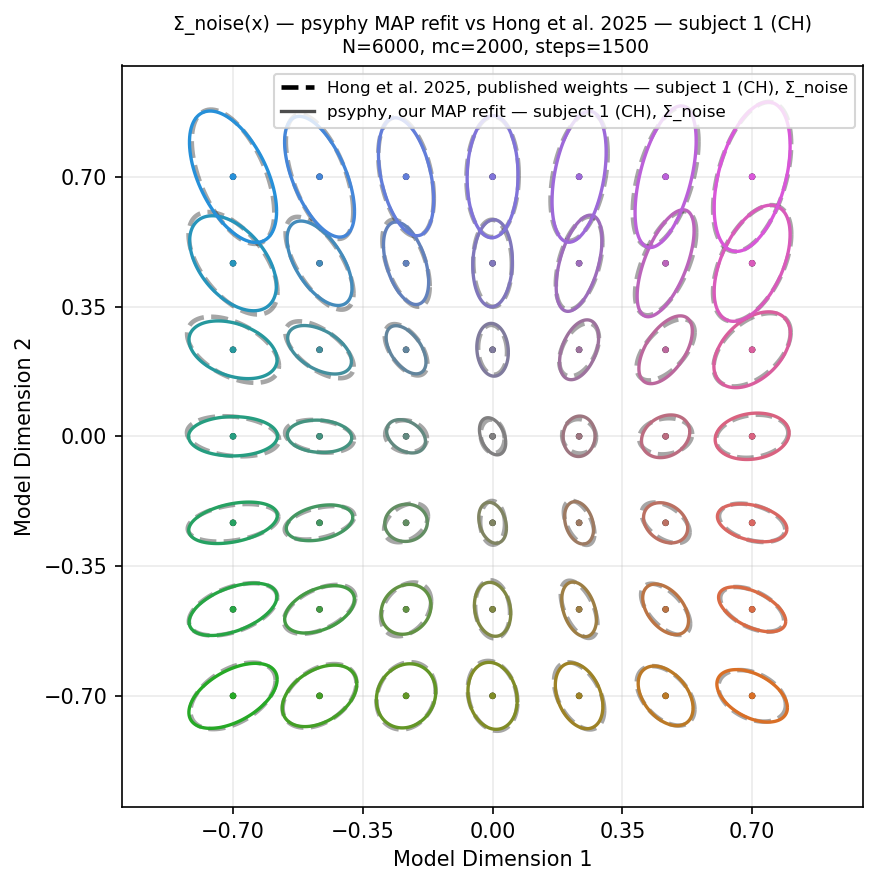
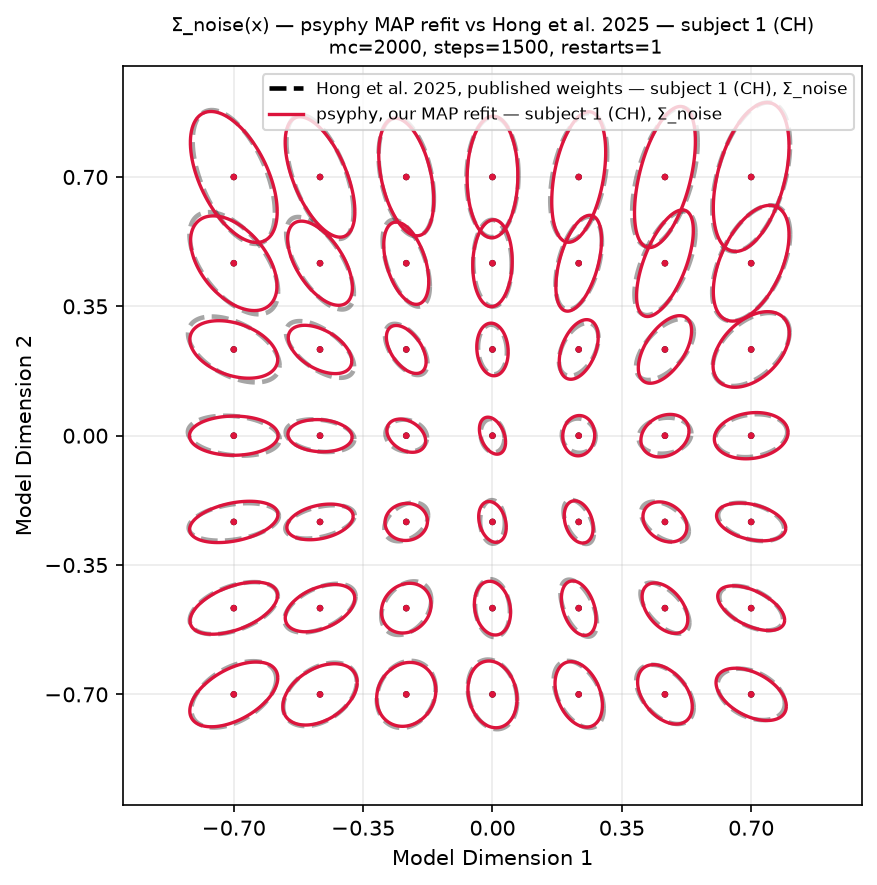
.

diff --git a/docs/examples/wppm/hong2025_reproduction.py b/docs/examples/wppm/hong2025_reproduction.py
@@ -300,23 +300,21 @@ def _load_calibration():
         return None
 
 
-def plot_comparison(
-    coords, Sigma_fit, Sigma_ref, out_path, title, scale, M=None, subject=1
-):
+def plot_comparison(coords, Sigma_fit, Sigma_ref, out_path, title, scale, subject=1):
     """Two noise fields overlaid, published vs fitted.
 
-    Same convention as the threshold figures: published dashed gray underneath,
-    ours solid on top colored by reference stimulus.
+    Published dashed gray underneath, as everywhere else on the page. Ours is a
+    single red, *not* colored by reference stimulus: this is the noise field
+    (the paper's supplementary Figure S3), and per-stimulus coloring is reserved
+    for the threshold figures so the two cannot be mistaken for each other.
     """
     fig, ax = plt.subplots(figsize=(6, 6), dpi=150)
-    colors, fallback_note = _stimulus_colors(coords, M)
-    title = title + fallback_note
     plot_ellipses(
         coords,
         [Sigma_ref, Sigma_fit],
         ax=ax,
         scale=scale,
-        colors=["black", colors],
+        colors=["black", "crimson"],
         linestyles=["--", "solid"],
         linewidths=[2.2, 1.6],
         alpha=[0.35, None],
@@ -509,6 +507,63 @@ def stage2_thresholds(paths: dict[str, Path], thr: dict, subject: int) -> None:
     )
 
 
+def _plot_noise_comparison(coords, Sigma_fit, Sigma_ref, mode, subject, subtitle):
+    """Draw the Sigma_noise comparison (the paper's supplementary Figure S3)."""
+    plot_comparison(
+        coords,
+        Sigma_fit,
+        Sigma_ref,
+        PLOTS_DIR / f"hong2025_{mode}_ellipses.png",
+        f"Σ_noise(x) — psyphy MAP refit vs Hong et al. 2025 — "
+        f"{_subject_tag(subject)}\n {subtitle}",
+        scale=auto_scale(coords, Sigma_ref),
+        subject=subject,
+    )
+
+
+def stage3_figure_from_fit(
+    paths: dict[str, Path], fit_path: Path, mode: str, subject: int
+) -> None:
+    """Redraw stage 3's Sigma_noise figure from saved weights, without refitting.
+
+    The covariance field is a deterministic function of W, so this needs no
+    optimizer, no Monte Carlo and no GPU -- only the fit did. It exists so a
+    styling or labelling change to the figure does not cost another cluster run.
+    """
+    print("\n=== Stage 3 (figure only): redrawn from the saved fit ===")
+    if not fit_path.exists():
+        print(f"  skipped: no saved fit at {fit_path}")
+        return
+
+    coords, _ = hong2025.load_sigma_table(paths["thres_ellipses"])
+    W_org = hong2025.load_reference_W(paths["weights"])
+    W_fit = jnp.asarray(np.load(fit_path)["W"])
+
+    model = hong2025.build_paper_model(mc_samples=1)  # MC unused: no likelihood
+    Sigma_ref = np.asarray(
+        WPPMCovarianceField(model, {"W": W_org})(jnp.asarray(coords))
+    )
+    Sigma_fit = np.asarray(
+        WPPMCovarianceField(model, {"W": W_fit})(jnp.asarray(coords))
+    )
+
+    for key, value in compare_fields(Sigma_fit, Sigma_ref).items():
+        print(f"    {key:24s} {value: .4f}")
+
+    cfg = MODES.get(mode, {})
+    _plot_noise_comparison(
+        coords,
+        Sigma_fit,
+        Sigma_ref,
+        mode,
+        subject,
+        subtitle=(
+            f"mc={cfg.get('mc_samples', '?')}, steps={cfg.get('steps', '?')}, "
+            f"restarts={cfg.get('restarts', '?')}"
+        ),
+    )
+
+
 def stage3_refit(
     paths: dict[str, Path], cfg: dict, mode: str, seed: int, subject: int
 ) -> Path:
@@ -588,17 +643,13 @@ def stage3_refit(
     for key, value in metrics.items():
         print(f"    {key:24s} {value: .4f}")
 
-    scale = auto_scale(coords, Sigma_ref)
-    plot_comparison(
+    _plot_noise_comparison(
         coords,
         Sigma_fit,
         Sigma_ref,
-        PLOTS_DIR / f"hong2025_{mode}_ellipses.png",
-        f"Σ_noise(x) — psyphy MAP refit vs Hong et al. 2025 — {_subject_tag(subject)}\n"
-        f" N={data.num_trials}, mc={cfg['mc_samples']}, steps={cfg['steps']}",
-        scale=scale,
-        M=_load_calibration(),
-        subject=subject,
+        mode,
+        subject,
+        subtitle=f"N={data.num_trials}, mc={cfg['mc_samples']}, steps={cfg['steps']}",
     )
 
     fig, ax = plt.subplots(figsize=(6, 4), dpi=150)
@@ -818,8 +869,11 @@ def stage5_bootstrap_envelope(
 
     fig, ax = plt.subplots(figsize=(6.5, 6.5), dpi=150)
 
-    # Layer 1: the CI set. Thin and nearly transparent so 114 fits read as a
-    # band rather than 114 distinguishable curves. Labelled once.
+    # --8<-- [start:envelope_plot]
+    # Layer 1: the CI set. 114 fields in one call -- plot_ellipses accepts a
+    # stack of shape (n_fields, n_points, 2, 2). Thin and nearly transparent so
+    # they read as a band rather than 114 distinguishable curves, and labelled
+    # once rather than 114 times.
     plot_ellipses(
         coords,
         boots,
@@ -847,6 +901,7 @@ def stage5_bootstrap_envelope(
         ],
         show_centers=True,
     )
+    # --8<-- [end:envelope_plot]
 
     ticks = np.linspace(-0.7, 0.7, 5)
     ax.set_xticks(ticks)
@@ -956,9 +1011,13 @@ def main() -> int:
         stage2_thresholds(paths, thr, args.subject)
     fit_path = args.from_fit or FITS_DIR / f"hong2025_{args.mode}_fit.npz"
 
-    if args.skip_refit or args.from_fit:
-        reason = "--from-fit" if args.from_fit else "--skip-refit"
-        print(f"\n=== Stage 3: skipped ({reason}) ===")
+    if args.from_fit:
+        # The fit is what needs a GPU; its figure does not. Redraw it from the
+        # saved weights so restyling never costs another cluster run.
+        print("\n=== Stage 3: fit skipped (--from-fit) ===")
+        stage3_figure_from_fit(paths, fit_path, args.mode, args.subject)
+    elif args.skip_refit:
+        print("\n=== Stage 3: skipped (--skip-refit) ===")
     else:
         if args.mode == "full" and jax.devices()[0].platform == "cpu":
             print(

diff --git a/docs/examples/wppm/hong2025_reproduction.md b/docs/examples/wppm/hong2025_reproduction.md
@@ -27,11 +27,17 @@ This tutorial is accompanied by a
     ```
 
 
-Hong et al. measured how finely people can tell colors apartfor more
-than just a handful of colors. This page reproduces their
-central figure from their own published data, in three stages: an exact
-check of the model's arithmetic, the threshold contours of Figure 2B, and a
-refit from their raw trials to see whether we get the same final results.
+Hong et al. measured how finely people can tell colors apart, for more than
+just a handful of colors. This page reproduces their central figure end to
+end: starting from their raw trial data, psyphy refits the model, inverts it
+to discrimination thresholds, and lands inside the authors' own bootstrap
+confidence interval.
+
+We build that up one rung at a time, so a disagreement at any point is
+attributable: an exact check of the model's arithmetic from their published
+weights, the Figure 2B inversion from those same weights, a refit from the raw
+trials, the two halves joined, and finally a comparison against the paper's own
+measure of its uncertainty.
 
 **Who this is for**
 
@@ -96,12 +102,17 @@ classic Weber's Law result on simulated one-dimensional data.
 
 
 <div align="center">
-    <img src="../plots/hong2025_thresholds.png"
-         alt="Paper Figure 2B reproduced: 66.7%-correct discrimination threshold contours"
+    <img src="../plots/hong2025_full_thresholds_end_to_end.png"
+         alt="Paper Figure 2B reproduced end to end, from raw trials through a psyphy refit"
          width="620"/>
-    <p><em>Colored ellipses are the contours we recover with psyphy; dashed gray
-    are the published ones. Each ellipse takes the color of its own reference
-    stimulus (center dot). The dimensions of the figure here are called model dimensions and are arbitrary in that they can result from any affine transformation of the input (RGB) space. </em></p>
+    <p><em>Paper Figure 2B, reproduced end to end for subject 1 (CH). Colored
+    ellipses are the contours psyphy recovers; dashed gray are the published
+    ones. Each ellipse takes the color of its own reference stimulus (center
+    dot). Nothing published enters this chain except the raw trials: psyphy
+    fits the model's weights from those trials, inverts the oddity task to turn
+    the resulting noise field into 66.7%-correct thresholds, and the result is
+    what you see. The axes are model dimensions, arbitrary up to an affine
+    transformation of the input (RGB) space.</em></p>
 </div>
 
 
@@ -295,6 +306,13 @@ object with the ``threshold_pred`` argument set to ``True``, passing it the rele
     squares over those three unknowns, followed by a single matrix inverse to
     recover $Σ$ itself. No iteration, and nothing that can fail to converge.
 
+We run the inversion at the paper's own settings — 16 directions, 1,000
+distances along each, 2,000 Monte Carlo samples per evaluation:
+
+```python title="Compute settings"
+--8<-- "docs/examples/wppm/hong2025_reproduction.py:threshold_settings"
+```
+
 ```python title="Threshold inversion at every published reference point"
 --8<-- "docs/examples/wppm/hong2025_reproduction.py:thresholds"
 ```
@@ -383,10 +401,11 @@ The following block of code refits the WPPM's weights from the raw data, compute
     <img src="../plots/hong2025_full_ellipses.png"
          alt="Sigma_noise: the published weights' field vs a full-settings psyphy refit"
          width="560"/>
-    <p><em><span class="arithmatex">\(\Sigma_{\text{noise}}(x)\)</span> for subject 1 (CH), in the same convention as the figure at
-    the top of this page: dashed gray is the field from the authors' published
-    weights, colored solid is our own MAP refit, each ellipse taking the color of
-    its reference stimulus. This is the paper's supplementary Figure S3.
+    <p><em><span class="arithmatex">\(\Sigma_{\text{noise}}(x)\)</span> for subject 1 (CH): dashed gray is the field
+    from the authors' published weights, red is our own MAP refit. This is the
+    paper's supplementary Figure S3. The ellipses are a single color here rather
+    than colored by reference stimulus — that convention is reserved for the
+    threshold figures, so the two cannot be confused at a glance.
     <br/><br/>
     Note: These ellipses look much like the ones at the top of the page, but they are a
     different quantity.
@@ -402,37 +421,97 @@ The following block of code refits the WPPM's weights from the raw data, compute
 </div>
 
 
-!!! warning "Scope"
-    These results are for one subject (CH, 1 of 8) and a single run on one GPU.
-    They were not repeated for seed stability and not run for the other seven
-    subjects. Read this as "the fitting pipeline reproduces the paper for this
-    subject", not as a claim about all eight.
-
-
 ---
-```python title="Compute settings"
---8<-- "docs/examples/wppm/hong2025_reproduction.py:threshold_settings"
+
+## End to end: from raw trials to Figure 2B
+
+This is the figure at the top of the page, and this is where it comes from.
+
+The two rungs before it each held something fixed: the Figure 2B inversion used
+the authors' *published* weights, so it tested our inversion with the optimizer
+removed; the refit fit weights from the raw trials but only ever compared noise
+fields. Joining them closes the loop — raw trials -> our weights -> our contours
+-> the published figure, with nothing published entering except the trials:
+
+```python title="Invert our own fitted weights"
+--8<-- "docs/examples/wppm/hong2025_reproduction.py:end_to_end"
 ```
 
-We run the inversion at the paper's own settings (16 directions, 1,000
-distances per direction, 2,000 Monte Carlo samples).
-
-### Plotting it
-Both contour fields go on one axes in a single
-[`plot_ellipses`](../../reference/viz.md) call: published dashed underneath, ours on
-top colored by reference stimulus:
+Both contour fields go onto one axes in a single
+[`plot_ellipses`](../../reference/viz.md) call — published dashed underneath,
+ours on top, each ellipse colored by its own reference stimulus:
 
 ```python title="The plotting call"
 --8<-- "docs/examples/wppm/hong2025_reproduction.py:plot_call"
 ```
 
 `scale` comes from `auto_scale(coords, thres_published)` and `colors` from
-`hong2025.w2d_to_rgb(coords, M)`. We recommend only passing  **one** `scale` for both fields because otherwise the comparison independently scaled fields cannot be
-compared by eye.
+`hong2025.w2d_to_rgb(coords, M)`, the monitor calibration published with the
+data. Pass **one** `scale` for both fields: scaling them independently would
+make them look more alike than they are. For per-ellipse colors, posterior
+draws and the rest of the API, see
+[Plotting ellipse fields](../viz/ellipse_plots.md).
 
-For more detail on this plotting function, including how to use per-ellipse colors
-and posterior draws, see [Plotting ellipse fields](../viz/ellipse_plots.md).
 
+<div align="center">
+    <img src="../plots/hong2025_full_thresholds_end_to_end.png"
+         alt="End-to-end: threshold contours from our own refit vs the published ones"
+         width="520"/>
+    <p><em>66.7%-correct threshold contours for subject 1 (CH), computed from the
+    weights <em>we</em> fit to the raw trials — no published weights anywhere in
+    this chain. Dashed gray is the authors' published inversion; colored solid is
+    ours, each ellipse taking the color of its reference stimulus.</em></p>
+</div>
+
+Because the weights are saved to disk, this step costs about 20 seconds on a
+laptop and needs no GPU — only the fit itself does.
+
+---
+
+## Is that close enough? The paper's own bootstrap CI
+
+The authors resampled the
+AEPsych trials 120 times, refit the WPPM to each, ranked the fits by summed
+Normalized Bures Similarity against their original fit, kept the top 114 (95% of
+120), and defined their confidence interval as the union and intersection of
+those retained threshold contours. The bootstrap contours come with the
+already come with the published data.
+
+```python title="The 120 published bootstrap refits"
+--8<-- "docs/examples/wppm/hong2025_reproduction.py:bootstraps"
+```
+
+```python title="Does our contour lie inside their interval?"
+--8<-- "docs/examples/wppm/hong2025_reproduction.py:coverage"
+```
+
+The envelope needs one extra trick: `plot_ellipses` takes a whole stack of
+fields at once, so all 114 retained refits are a single call before the
+published fit and ours go on top of them.
+
+```python title="Drawing the band, then the two fits on top"
+--8<-- "docs/examples/wppm/hong2025_reproduction.py:envelope_plot"
+```
+
+<div align="center">
+    <img src="../plots/hong2025_bootstrap_envelope.png"
+         alt="Our threshold contours against the paper's 95% bootstrap confidence interval"
+         width="620"/>
+    <p><em>Our end-to-end contours against the paper's own 95% bootstrap interval
+    for subject 1 (CH). The gray band is the 114 retained bootstrap refits,
+    dashed gray the published fit, colored solid ours.</em></p>
+</div>
+
+This figure shows that our fit is indistinguishable from their run-to-run variaton at all 49 reference points and every direction tested, and in that
+sense *psyphy's refit is indistinguishable from their fit*.
+
+
+
+!!! warning "Scope"
+    These results are for one subject (CH, 1 of 8) and a single run on one GPU.
+    They were not repeated for seed stability and not run for the other seven
+    subjects. Read this as "the fitting pipeline reproduces the paper for this
+    subject", not as a claim about all eight.
 
 
 
